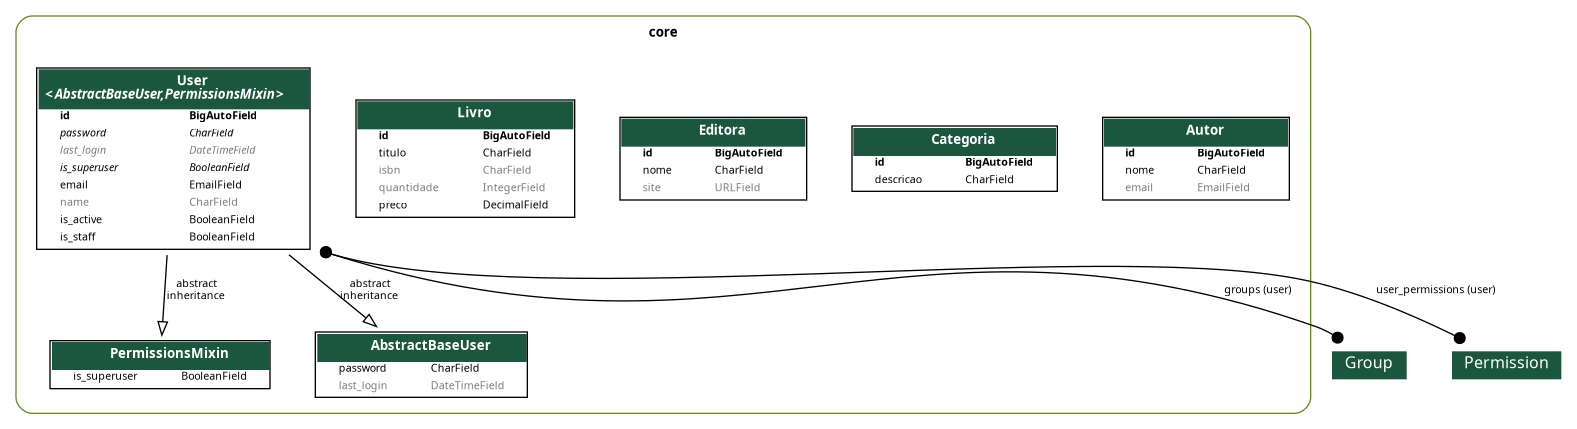
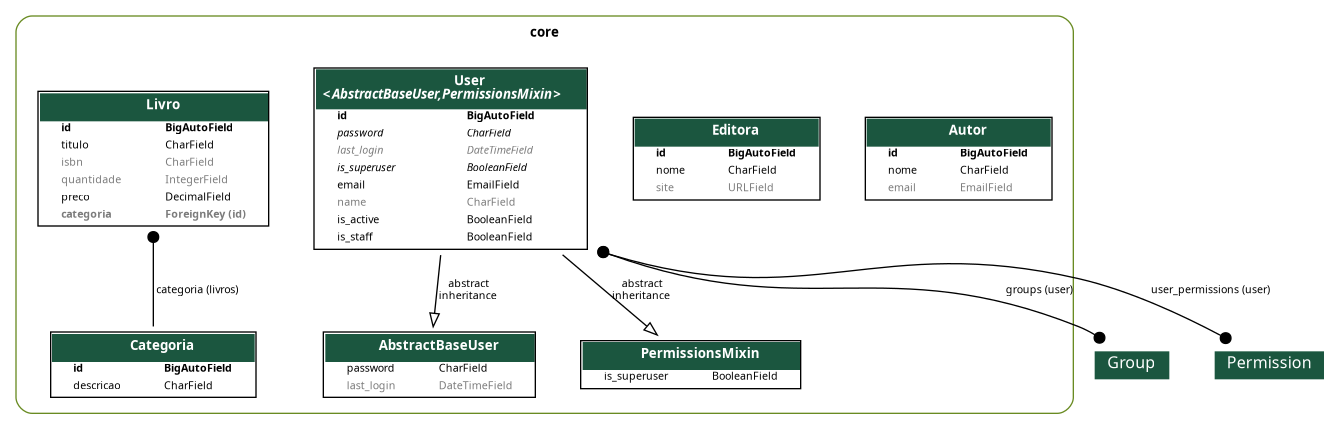
feat: criando relacionamento entre livro e categoria

diff --git a/core/models/livro.py b/core/models/livro.py
@@ -1,10 +1,14 @@
 from django.db import models
 
+from .categoria import Categoria
+
+
 class Livro(models.Model):
     titulo = models.CharField(max_length=255)
     isbn = models.CharField(max_length=32, null=True, blank=True)
-    quantidade = models.IntegerField(default=0,  null=True, blank=True)
+    quantidade = models.IntegerField(default=0, null=True, blank=True)
     preco = models.DecimalField(max_digits=7, decimal_places=2, default=0)
+    categoria = models.ForeignKey(Categoria, on_delete=models.PROTECT, related_name='livros', null=True, blank=True)
 
     def __str__(self):
         return f'({self.id}) {self.titulo} ({self.quantidade})'

diff --git a/core/migrations/0007_livro_categoria.py b/core/migrations/0007_livro_categoria.py
@@ -1,0 +1,19 @@
+# Generated by Django 5.2.12 on 2026-03-17 17:33
+
+import django.db.models.deletion
+from django.db import migrations, models
+
+
+class Migration(migrations.Migration):
+
+    dependencies = [
+        ('core', '0006_autor_categoria_editora_livro'),
+    ]
+
+    operations = [
+        migrations.AddField(
+            model_name='livro',
+            name='categoria',
+            field=models.ForeignKey(blank=True, null=True, on_delete=django.db.models.deletion.PROTECT, related_name='livros', to='core.categoria'),
+        ),
+    ]
